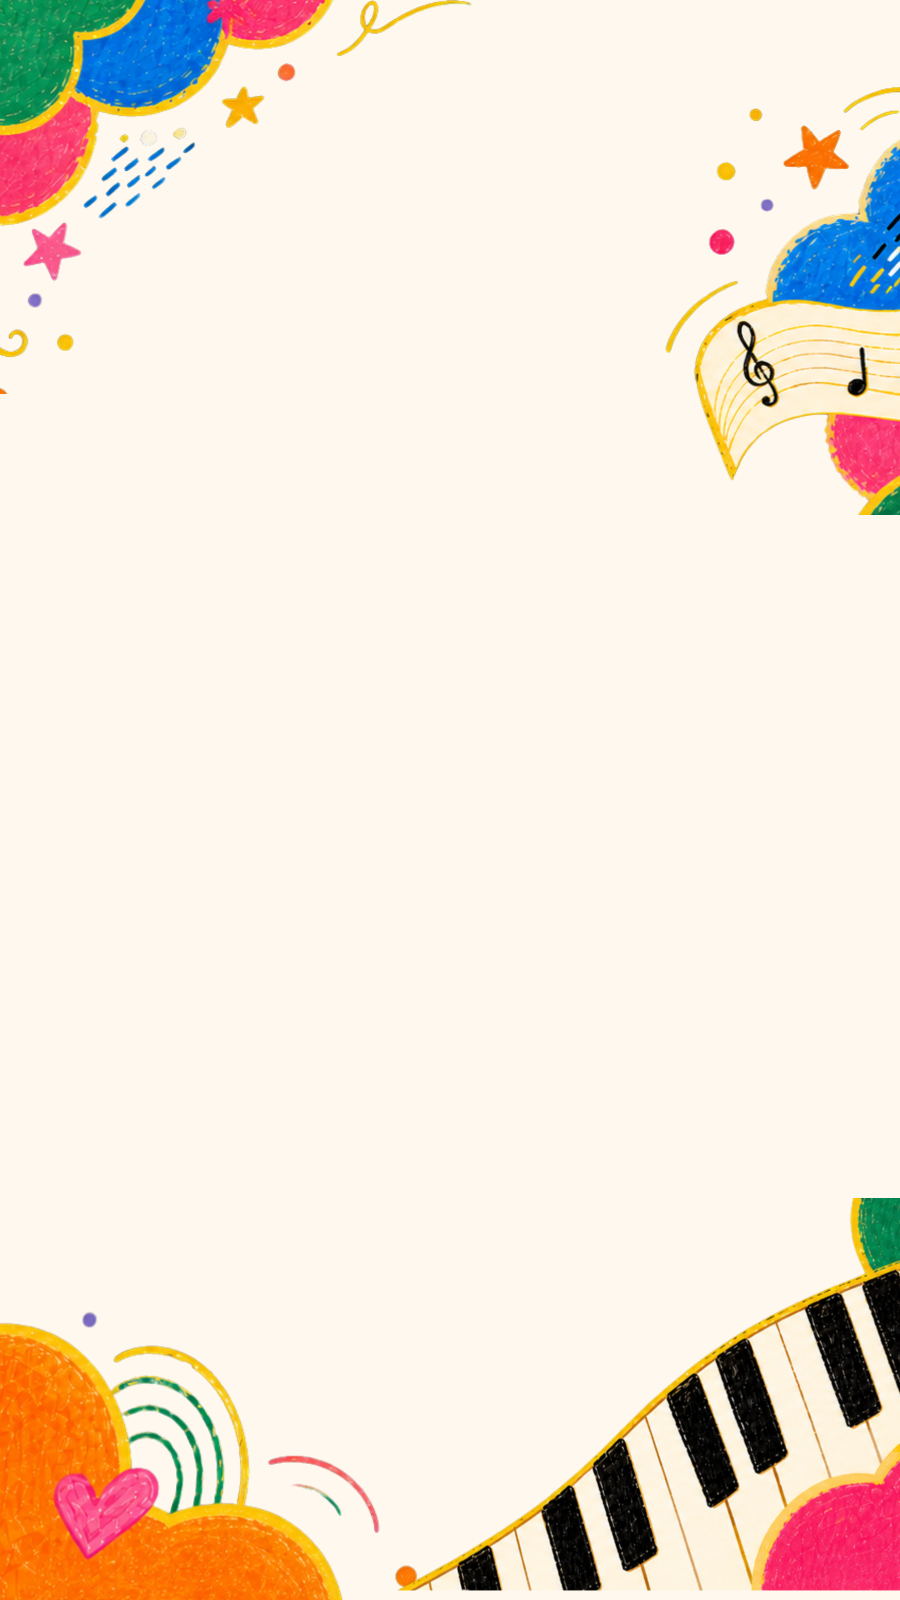
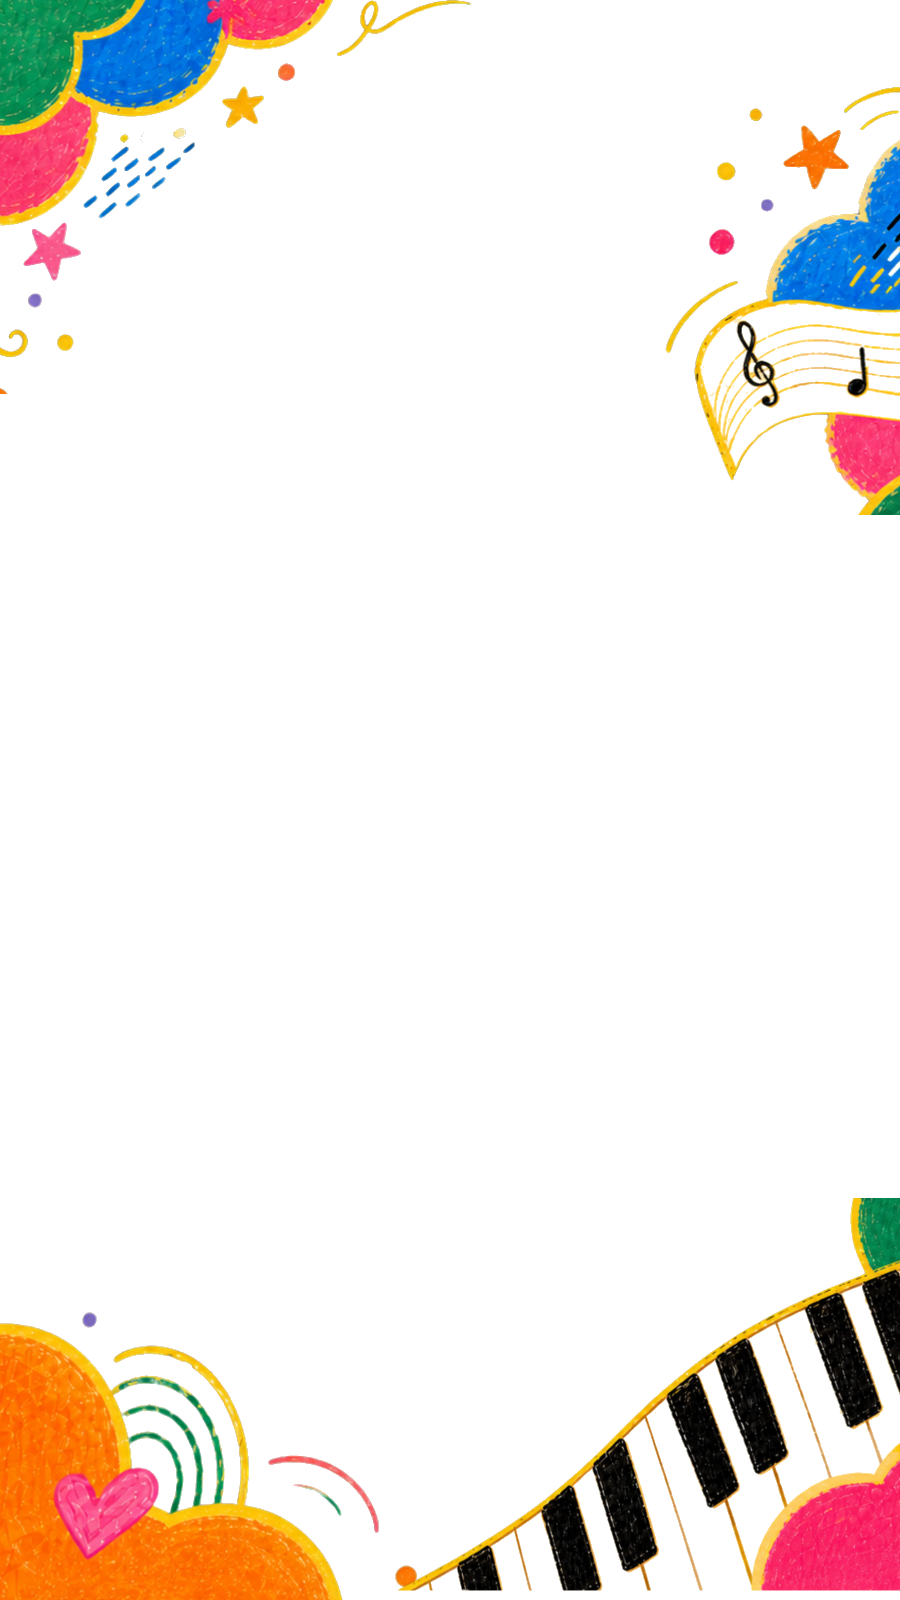
Make mobile hero bg transparent so it blends in light/dark modes
The mobile bg PNG had a baked-in cream background, which clashed with
the dark page bg (showing as a lighter strip behind the hero). Removed
that solid background from the asset so the page color shows through.
Dropped the dark-mode brightness filter and the var(--bg) overlay since
they're no longer needed and were dimming the decorations.

diff --git a/src/app/globals.css b/src/app/globals.css
@@ -322,17 +322,12 @@ p { margin: 0 0 1em 0; }
       url("/hero-bg-mobile.webp") type("image/webp"),
       url("/hero-bg-mobile.png") type("image/png")
     );
-    background-position: center center;
+    background-position: center top;
     background-repeat: no-repeat;
     background-size: cover;
-    filter: saturate(0.95);
     opacity: 1;
   }
-  .hero-with-bg::after { opacity: 0.04; }
-  [data-theme="dark"] .hero-with-bg::before {
-    filter: saturate(0.85) brightness(0.82);
-  }
-  [data-theme="dark"] .hero-with-bg::after { opacity: 0.7; }
+  .hero-with-bg::after { opacity: 0; }
   .hero-logo-stage {
     min-height: clamp(480px, 70svh, 620px);
     padding: 82px 16px 30px;